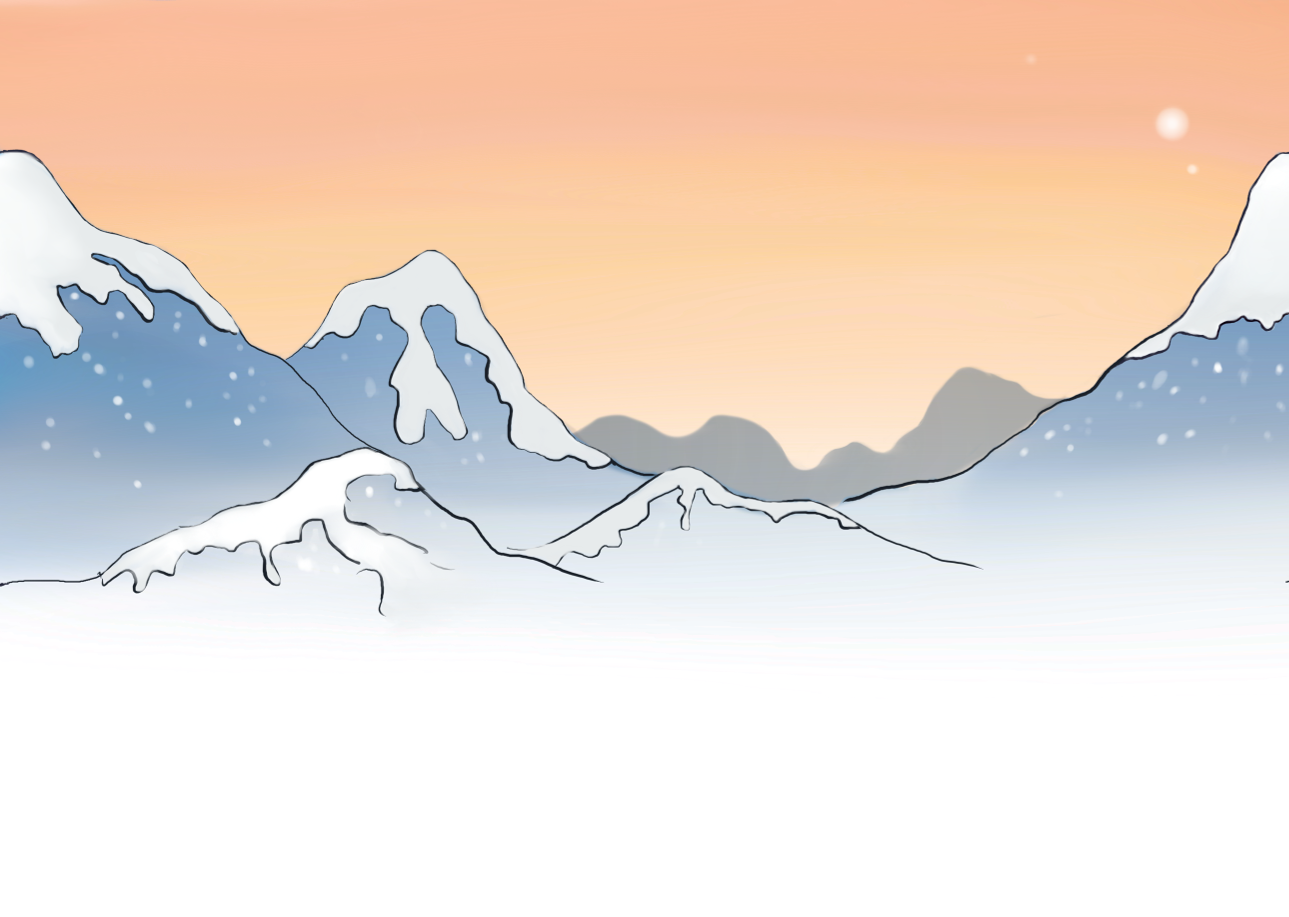
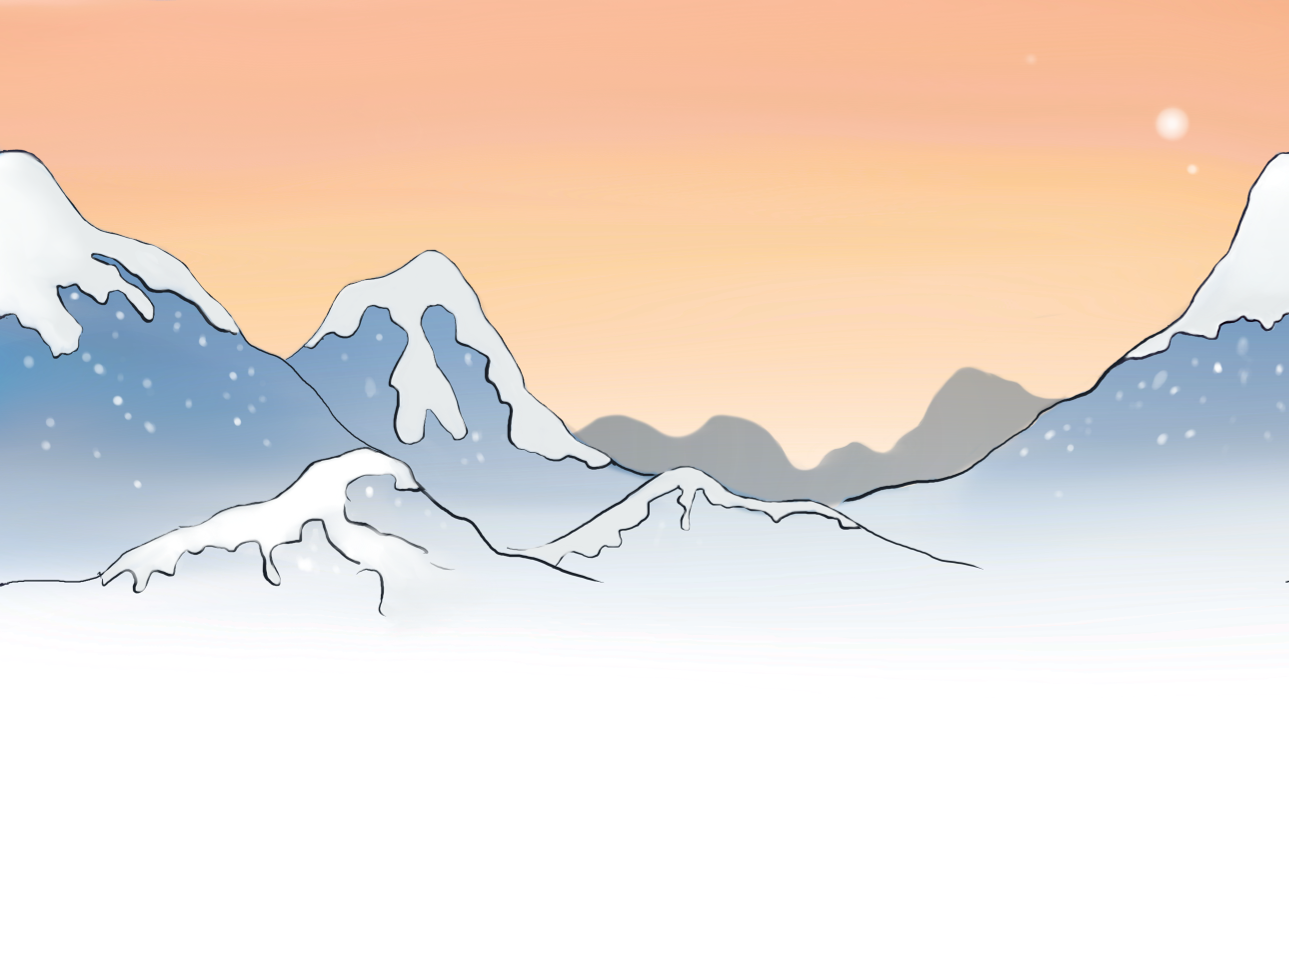
position background at 0,0

diff --git a/backgroundAssets.js b/backgroundAssets.js
@@ -9,7 +9,7 @@ const gameAlert = document.getElementById('game-alert');
     };
 
     global.createBackgroundAssets = function(scene, gameState) {
-        gameState.background = scene.add.tileSprite(0, 50, scene.cameras.main.width, scene.cameras.main.height, 'bg')
+        gameState.background = scene.add.tileSprite(0, 0, scene.cameras.main.width, scene.cameras.main.height, 'bg')
             .setOrigin(0, 0)
             .setScrollFactor(0)
             .setScale(1);
